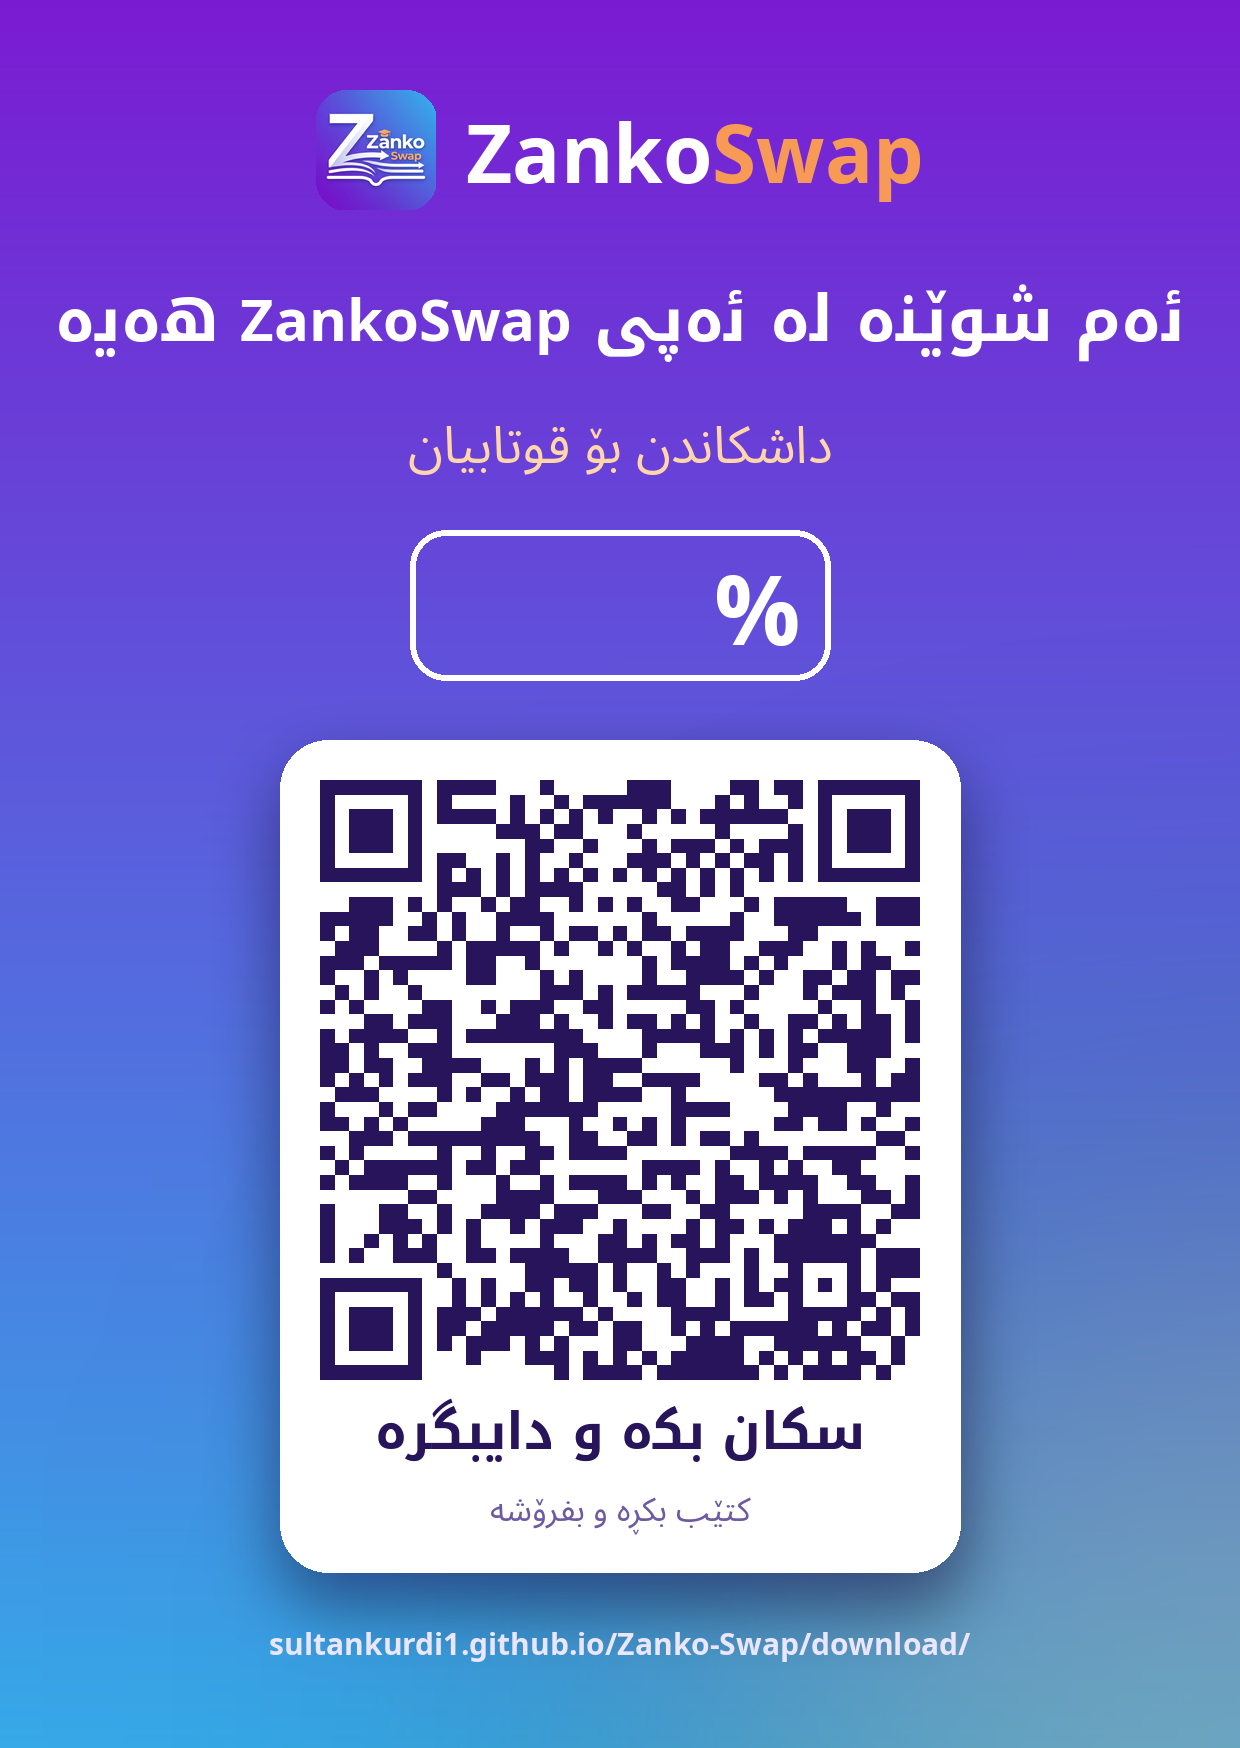
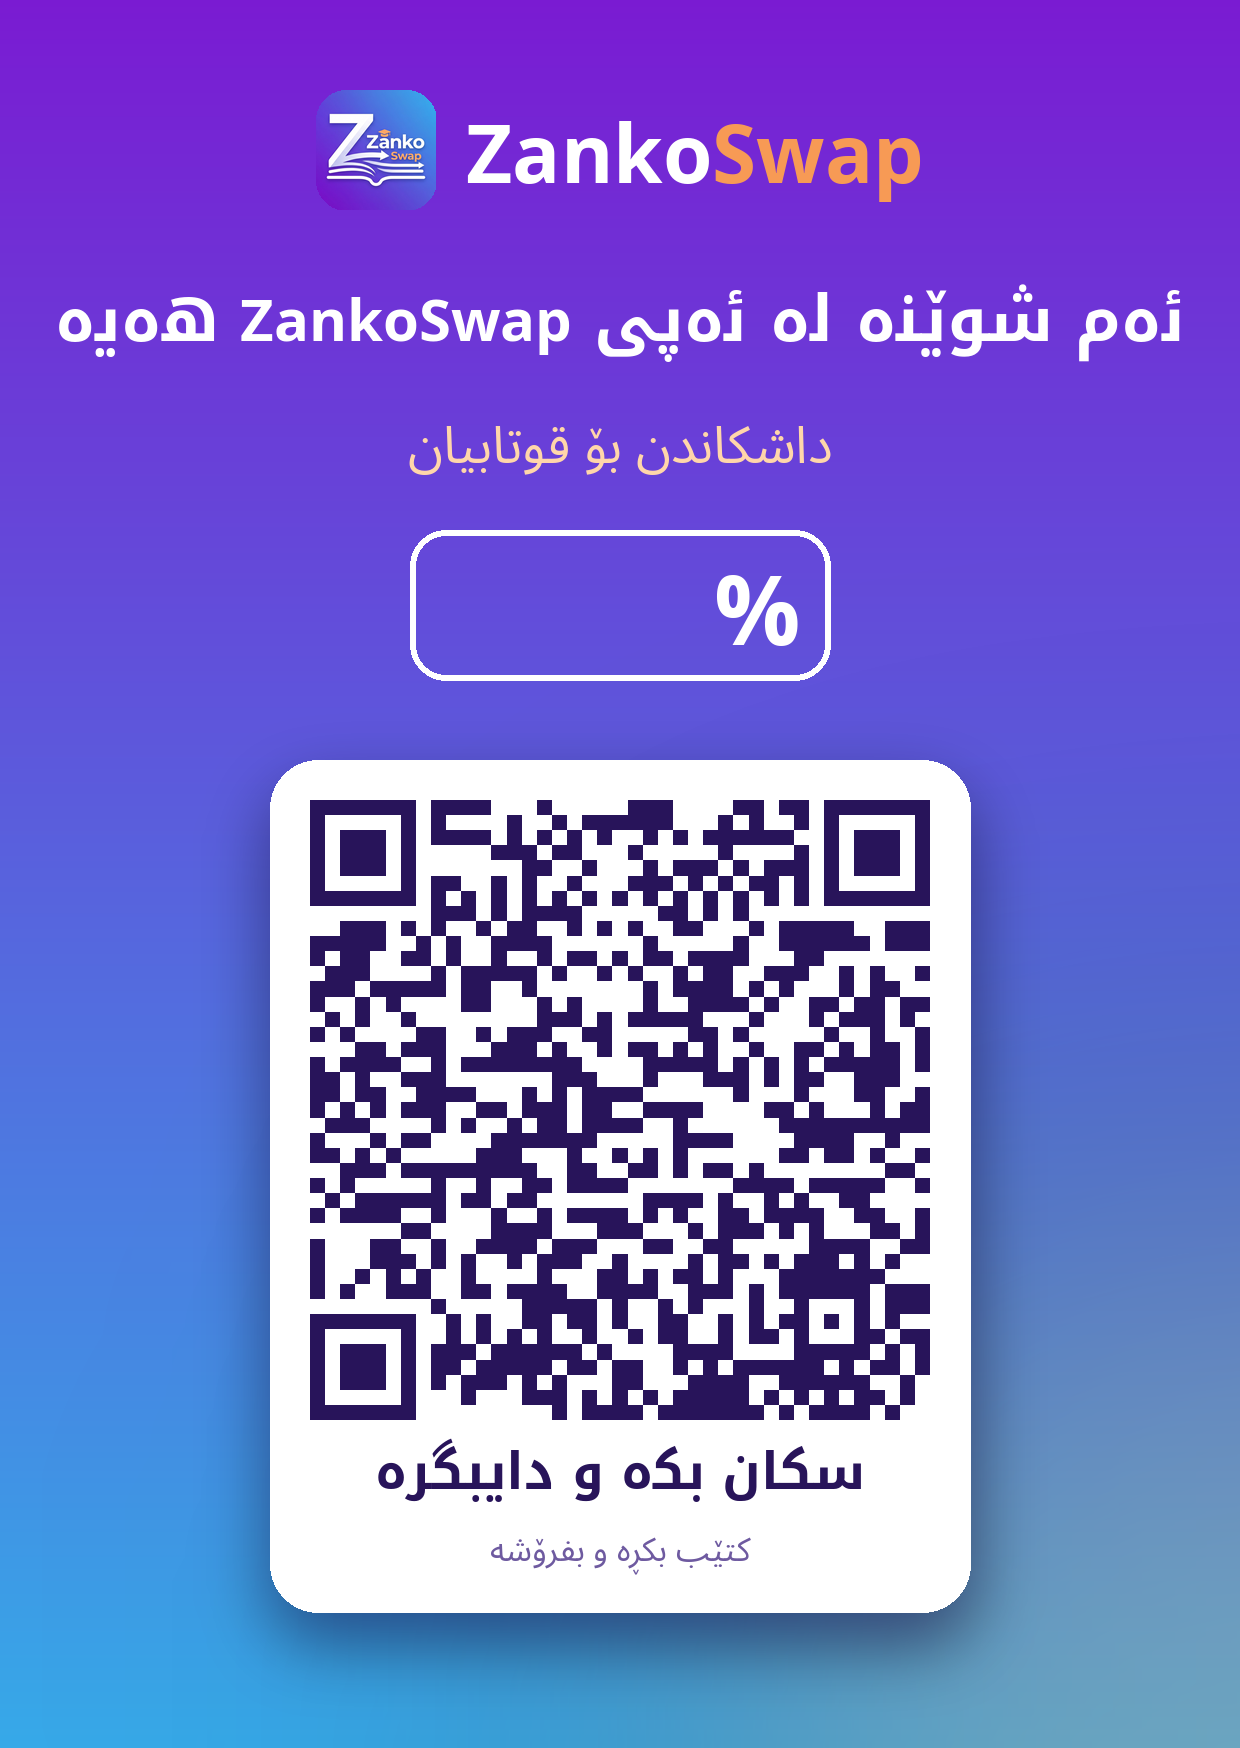
Download page sends phones straight to their store; drop link text from posters

Changed region(s): [[0.2145, 0.4016, 0.7968, 0.9577]]

diff --git a/docs/download/index.html b/docs/download/index.html
@@ -66,7 +66,6 @@ footer a { color: #fff; }
 
   <div class="card">
     <p id="status">بەم زووانە لە فرۆشگاکان بەردەست دەبێت</p>
-    <!-- When the app is live, change class "soon" to "live" and set href to the store link. -->
     <a class="store soon" id="play" href="#" aria-disabled="true">
       <svg viewBox="0 0 24 24" aria-hidden="true"><path fill="currentColor" d="M3.6 1.8 13.8 12 3.6 22.2c-.4-.2-.6-.6-.6-1.1V2.9c0-.5.2-.9.6-1.1Zm11.6 11.6 2.5 2.5-11.5 6.6 9-9.1Zm3.9-2.2c.6.3.9.8.9 1.3s-.3 1-.9 1.3l-2.6 1.5-2.8-2.8 2.8-2.8 2.6 1.5ZM6.2 1.5l11.5 6.6-2.5 2.5-9-9.1Z"/></svg>
       <span>Google Play<small>بەم زووانە</small></span>
@@ -91,5 +90,34 @@ footer a { color: #fff; }
     <a href="../">سیاسەتی تایبەتمەندی و مەرجەکان</a>
   </footer>
 </main>
+<script>
+  // Fill these in when the app is live. Phones are then sent straight to their store.
+  var PLAY_URL = "";
+  var IOS_URL = "";
+
+  function goLive(id, url) {
+    var a = document.getElementById(id);
+    a.href = url;
+    a.className = "store live";
+    a.removeAttribute("aria-disabled");
+    a.querySelector("small").textContent = "ئێستا دایبگرە";
+  }
+  if (PLAY_URL) goLive("play", PLAY_URL);
+  if (IOS_URL) goLive("ios", IOS_URL);
+  if (PLAY_URL || IOS_URL) {
+    document.getElementById("status").textContent = "بەخۆڕایی دایبگرە";
+  }
+
+  var ua = navigator.userAgent || "";
+  var isAndroid = /Android/i.test(ua);
+  var isIOS = /iPhone|iPad|iPod/i.test(ua) || (/Macintosh/.test(ua) && "ontouchend" in document);
+  if (location.search.indexOf("stay") === -1) {
+    if (isAndroid && PLAY_URL) location.replace(PLAY_URL);
+    else if (isIOS && IOS_URL) location.replace(IOS_URL);
+  }
+  document.querySelectorAll(".store.soon").forEach(function (a) {
+    a.addEventListener("click", function (e) { e.preventDefault(); });
+  });
+</script>
 </body>
 </html>

diff --git a/tool/marketing_print.py b/tool/marketing_print.py
@@ -138,10 +138,7 @@ def poster_a4():
         draw.line([(dot_x - 12, dot_y), (dot_x - 3, dot_y + 10), (dot_x + 13, dot_y - 10)], fill=WHITE, width=8)
         y += th + 60
 
-    bottom = qr_card(img, w // 2, y + 110, 1000, "سکان بکە و دایبگرە", "بەخۆڕاییە، بە کوردی و عەرەبی و English", 1.0)
-    url = font(LATIN_FONT, 46)
-    t = DOWNLOAD_URL.replace("https://", "")
-    draw.text(((w - draw.textlength(t, font=url)) / 2, min(bottom + 70, h - 120)), t, font=url, fill=(235, 230, 255))
+    qr_card(img, w // 2, y + 140, 1000, "سکان بکە و دایبگرە", "بەخۆڕاییە، بە کوردی و عەرەبی و English", 1.0)
     img.convert("RGB").save(OUT / "poster-a4.png", dpi=(300, 300), optimize=True)
 
 
@@ -163,11 +160,7 @@ def counter_card_a6():
     draw.text((bx + bw - 30 - draw.textlength("%", font=pct), y + 12), "%", font=pct, fill=WHITE)
     y += bh + 60
 
-    bottom = qr_card(img, w // 2, y, 600, "سکان بکە و دایبگرە", "کتێب بکڕە و بفرۆشە", 0.8)
-    url = font(LATIN_FONT, 30)
-    t = DOWNLOAD_URL.replace("https://", "")
-    draw = ImageDraw.Draw(img)
-    draw.text(((w - draw.textlength(t, font=url)) / 2, min(bottom + 50, h - 70)), t, font=url, fill=(235, 230, 255))
+    qr_card(img, w // 2, y + 20, 620, "سکان بکە و دایبگرە", "کتێب بکڕە و بفرۆشە", 0.8)
     img.convert("RGB").save(OUT / "counter-card-a6.png", dpi=(300, 300), optimize=True)
 
 
